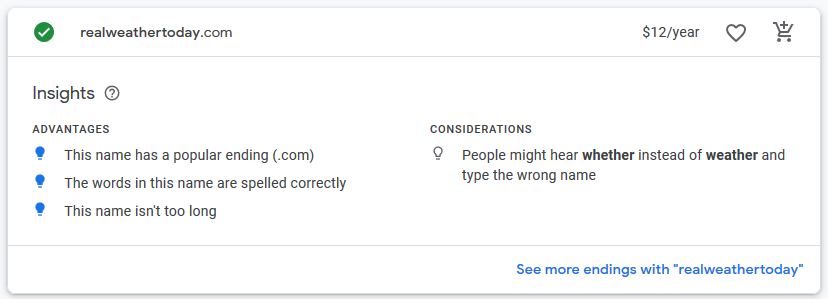
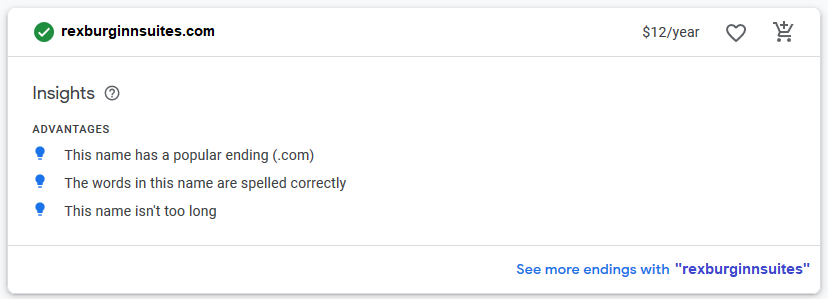
update

diff --git a/lesson-12/index.html b/lesson-12/index.html
@@ -50,7 +50,7 @@ participates in the main events like sealings, weddings, receptions and stake se
                 </section>
                 <section class="domain">
                     <h3>Domain Name</h3>
-                    <p>realweathertoday.com</p>
+                    <p>Rexburg Temple Inn & Suites - rexburginnsuites.com</p>
                     <img src="img/domain.png" alt="domain info">
                 </section>
                 <section class="logo">
